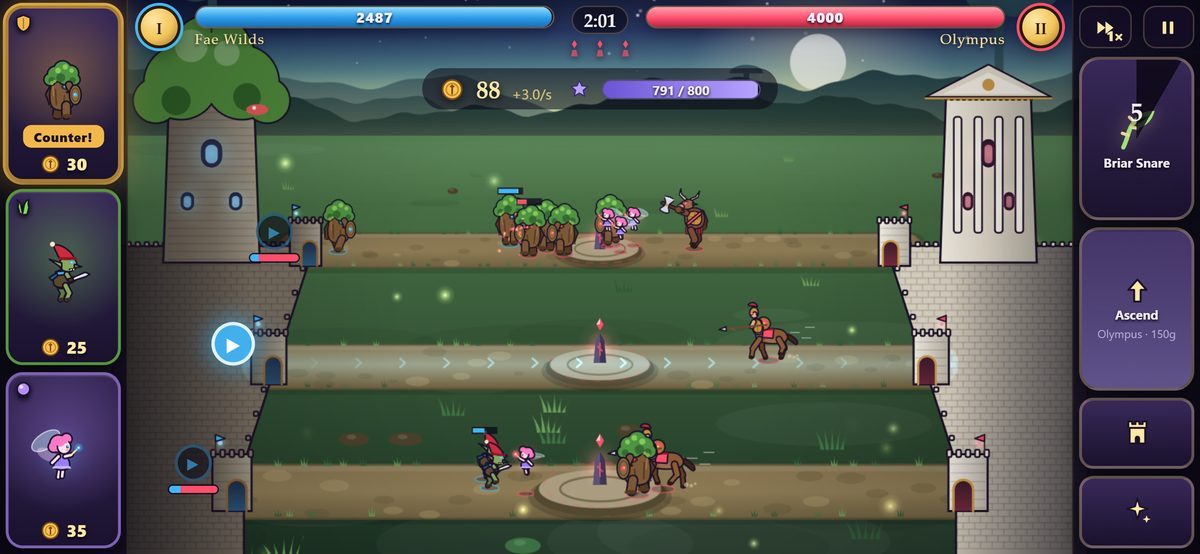
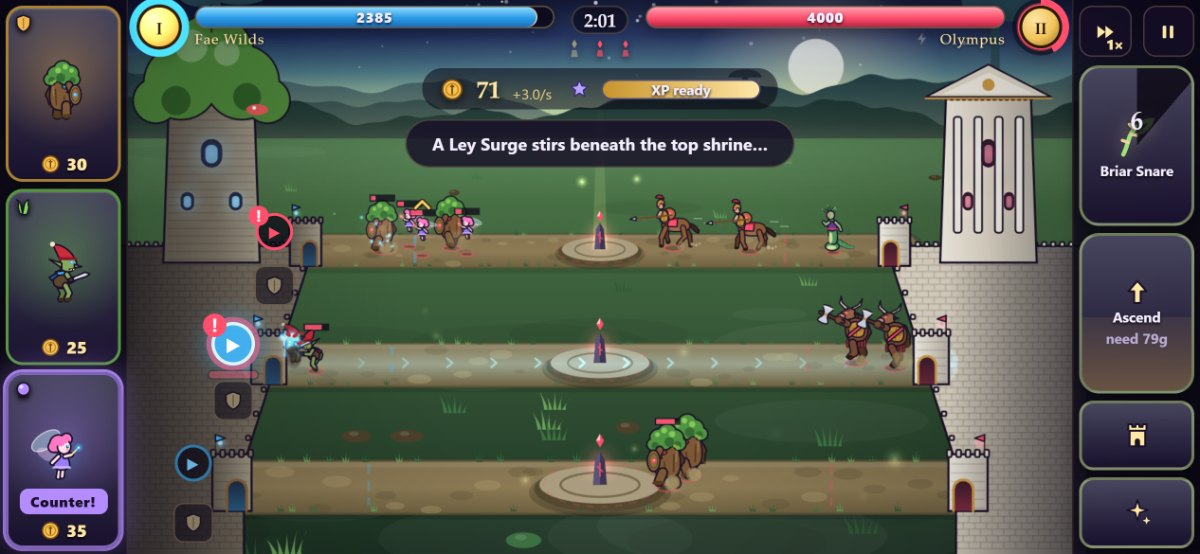
Backlog 123: README's phone battle screenshot shows run #8's HUD (danger badges, clearer lane tabs)

diff --git a/PROGRESS.md b/PROGRESS.md
@@ -524,9 +524,10 @@ run #8's changes, each reproduced by a test that failed before the fix.)
 122. [x] Settings: the sigil button (`.mbtn.ssigil`, menus.css ~1815, 18 px) is much larger than the
    controls around it, on phones and desktop (visual review). (Done: `small` had no rule — it was a
    full-size menu button; now 6×16 px padding, 16 px, as tall as the name field.)
-123. [ ] README screenshots (`docs/*.jpg`, refreshed in run #7) predate run #8's HUD changes (the
+123. [x] README screenshots (`docs/*.jpg`, refreshed in run #7) predate run #8's HUD changes (the
    "!" danger badge, clearer lane tabs, the hold shield's place, opaque phone panels): refresh the
-   phone battle shot.
+   phone battle shot. (Done: `docs/mobile.jpg` re-shot (`shoot mobile-land`, 1200×554 JPEG): danger
+   badges, clearer tabs, the shield below the strength bar.)
 124. [x] `npm run smoke -- --only desktop,rotated` fails ("Play opens the difficulty screen —
    pause") though each passes alone and the full run passes: flows inherit storage (an autosave,
    settings) from the ones before them. Give each flow a clean profile (clear storage at its
